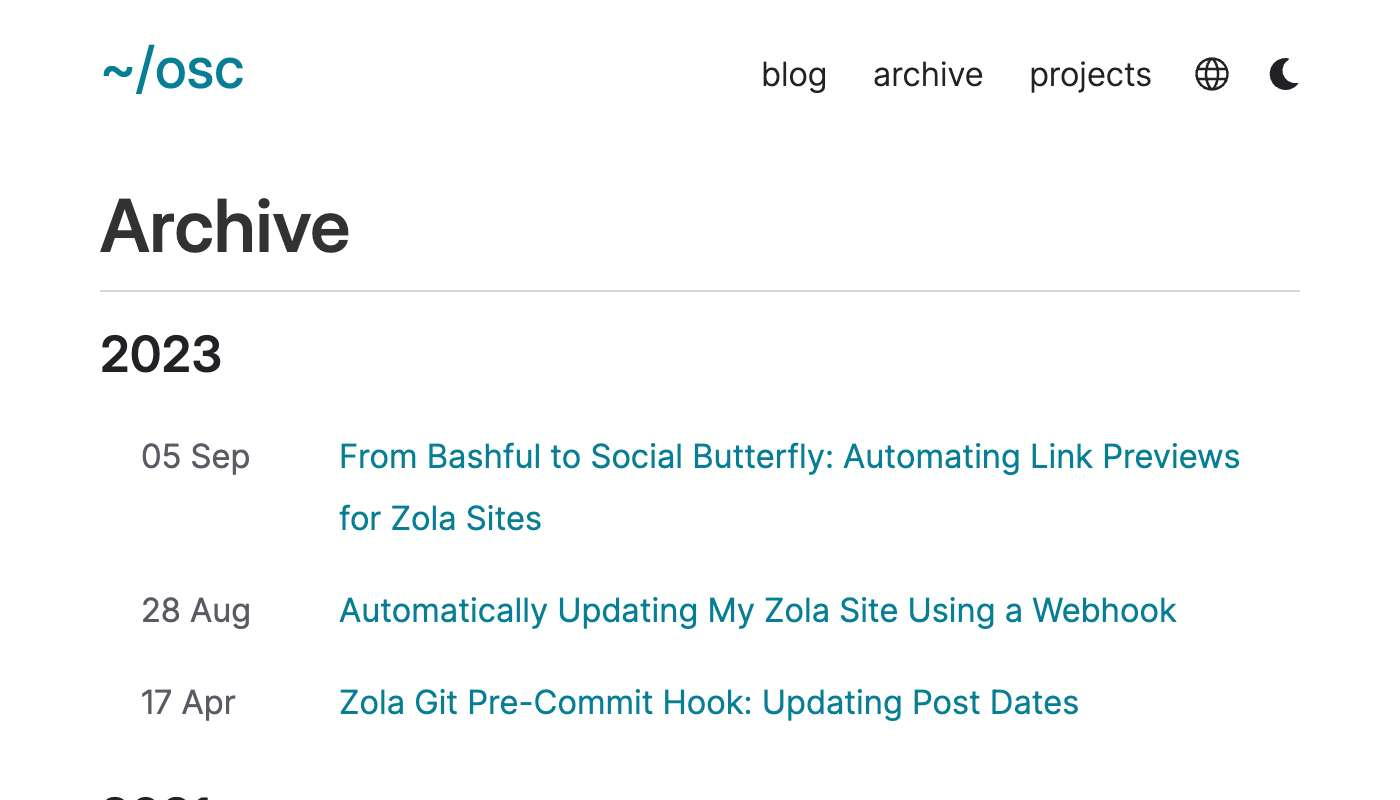
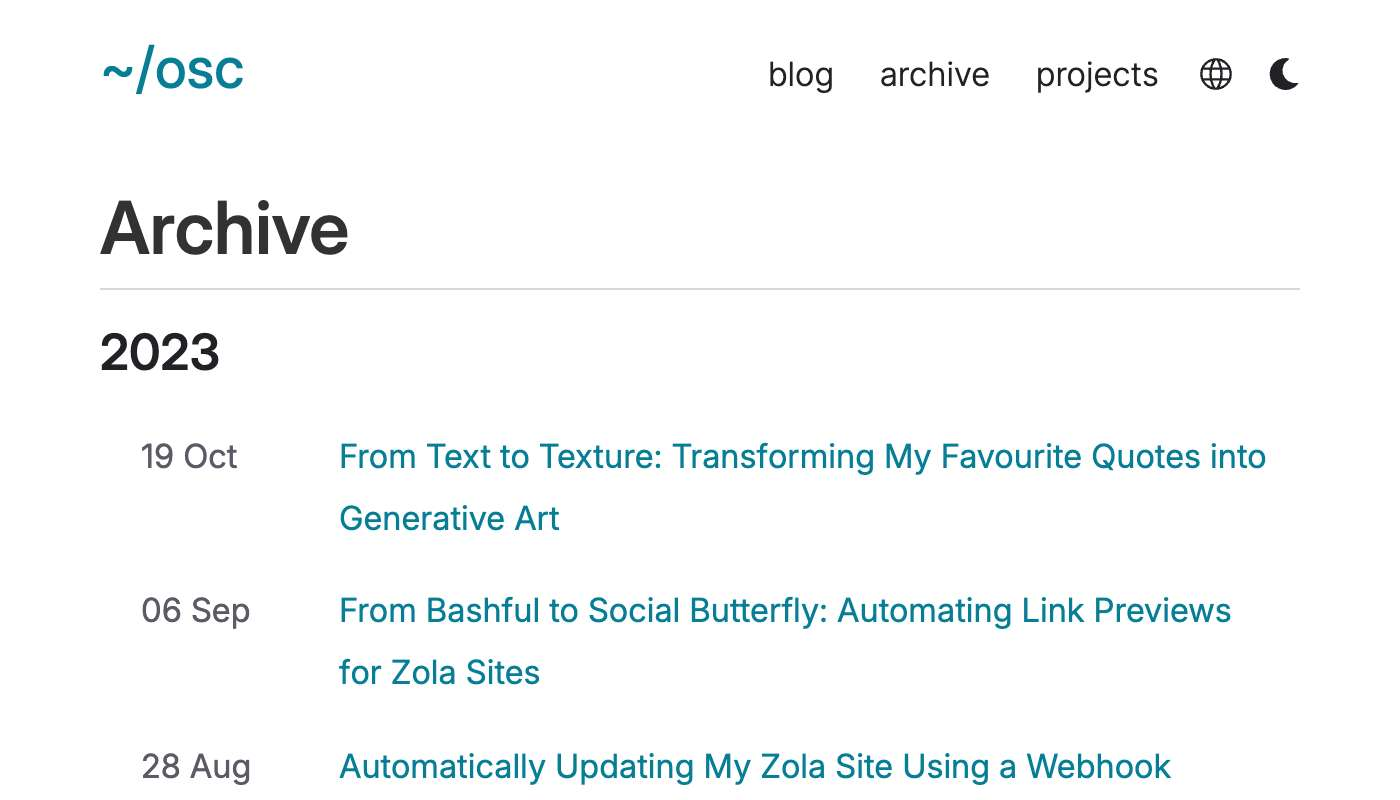
add quotes into generative AI post (& update tabi)

diff --git a/content/blog/transforming-quotes-into-generative-art/index.md b/content/blog/transforming-quotes-into-generative-art/index.md
@@ -1,0 +1,122 @@
++++
+title = "From Text to Texture: Transforming My Favourite Quotes into Generative Art"
+date = 2023-10-19
+description = "Exploring the intersection of literature and deep learning, I've used Stable Diffusion to turn cherished quotes into visual art. Journey through a gallery where words meet textures, colours, and forms."
+
+[taxonomies]
+tags = ["experiment", "generative AI"]
+
+[extra]
+social_media_card = "img/social_cards/blog_transforming_quotes_into_generative_art.jpg"
++++
+
+I've been collecting quotes that struck a chord with me for over 7 years.
+
+Recently, I've been experimenting with Stable Diffusion (SD), a deep learning model capable of turning words into images.
+
+I decided to have some fun and see what would happen if I tried to transform my favourite quotes into images.
+
+The process was simple: add the entire quote to SD, plus a few style-related words (e.g. "impasto" or "negative space"), and hit "Generate". I generated many images and picked my favourite for each quote.
+
+I hope at least one quote or image strikes a chord with you as well.
+
+## Blade Runner — David Peoples & Rutger Hauer
+
+> All those moments will be lost in time, like tears in rain… Time to die.
+
+{{ full_width_image(src="blog/transforming-quotes-into-generative-art/img/tearsintherain.webp") }}
+
+<br>
+
+## Ben Brooks — Grow Up
+
+> I enjoy being outdoors during mornings and evenings because I find that the sky is much more creative in its use of colour.
+
+{{ full_width_image(src="blog/transforming-quotes-into-generative-art/img/creativeuseofcolour.webp") }}
+
+<br>
+
+## Fyodor Dostoevsky — Demons
+
+> There are seconds, they come only five or six at a time, and you suddenly feel the presence of eternal harmony, fully achieved. It is nothing earthly; not that it’s heavenly, but man cannot endure it in his earthly state. One must change physically or die. The feeling is clear and indisputable. As if you suddenly sense the whole of nature and suddenly say: yes, this is true. God, when he was creating the world, said at the end of each day of creation: ‘Yes, this is true, this is good.’ This… this is not tenderheartedness, but simply joy. You don’t forgive anything, because there’s no longer anything to forgive. You don’t really love—oh, what is here is higher than love! What’s most frightening is that it’s so terribly clear, and there’s such joy. If it were longer than five seconds—the soul couldn’t endure it and would vanish. In those five seconds I live my life through, and for them I would give my whole life, because it’s worth it. To endure ten seconds one would have to change physically.
+
+{{ full_width_image(src="blog/transforming-quotes-into-generative-art/img/changeordie.webp") }}
+
+<br>
+
+## Jean-Paul Sartre — Nausea
+
+> I felt such utter loneliness that I thought of commiting suicide. What held me back was the idea that nobody, absolutely nobody would be moved by my death, that I would be even more alone in death than in life.
+
+{{ full_width_image(src="blog/transforming-quotes-into-generative-art/img/suicide.webp") }}
+
+<br>
+
+## Hiromi Kawakami — The Briefcase
+
+> I've come a long way, the cold seeps through my worn clothes. This afternoon the sky is clear, oh how my heart aches!
+
+{{ full_width_image(src="blog/transforming-quotes-into-generative-art/img/coldseeps.webp") }}
+
+<br>
+
+## Ben Brooks — Hurra
+
+> I think being with someone you don't connect with is a quicker path to loneliness than being totally alone. It's something that leads you to think about the impossibility of coexisting meaningfully with other people.
+
+{{ full_width_image(src="blog/transforming-quotes-into-generative-art/img/beingwithsomeoneyoudontconnect.webp") }}
+
+<br>
+
+## Rafael Lechowski — Quarcissus
+
+{{ multilingual_quote(original="Pero me miento,<br>
+me digo que la soledad es superior a la unión,<br>
+en mi pobre convencimiento,<br>
+y que sólo hay un amor eterno: el propio.<br>
+Pero no basta el amor propio:<br>
+¡igual que hay partes del cuerpo<br>
+que no puede rascar uno mismo,<br>
+hay lugares del alma que sólo puede acariciar otro!",
+translated="But I lie to myself,<br>
+I tell myself that solitude is superior to union,<br>
+in my poor conviction,<br>
+and that there is only one eternal love: one's own.<br>
+But self-love is not enough:<br>
+just as there are parts of the body<br>
+that one cannot scratch oneself,<br>
+there are places of the soul that only another can caress!", author="Rafael Lechowski") }}
+
+{{ full_width_image(src="blog/transforming-quotes-into-generative-art/img/quarcissus.webp") }}
+
+<br>
+
+## Victor Pelevin — Yellow Arrow
+
+> Andrei was suddenly struck by the thought of what a genuine tragedy it was for millions of light rays to set out on their journey from the surface of the sun, go hurtling through the infinite void of space and pierce the miles-thick sky of Earth, only to be extinguished in the revolting remains of yesterday’s soup. Maybe these yellow arrows slanting in through the window were conscious, hoped for something better—and realized that their hopes were groundless, giving them all the necessary ingredients for suffering.
+
+{{ full_width_image(src="blog/transforming-quotes-into-generative-art/img/yellowarrow.webp") }}
+
+<br>
+
+## Francisco Umbral — Mortal y Rosa
+
+{{ multilingual_quote(original="Vidas que arden ante mi vida, tiempo que se consume y corre. ¿Asisten ellos al espectáculo de mi tiempo, a la hoguera de mi vida? Damos una luz, al extinguirnos, que sólo ven los demás. Nosotros no la vemos. Vamos en llamas por la vida, y nadie nos avisa del incendio, por no asustarnos. Pero cómo nos ven arder. Como yo veo arder al escritor, al amigo. Vamos entre luces, entre noches, hacia no sé dónde, por la ciudad, hablando, soñando, dentro del coche, lentamente, contra el hielo, el miedo, la sombra, pasando huecos inmensos de tiempo, calles dormidas, multitudes.", translated="Lives burning before my life, time consumed and running. Are they watching the spectacle of my time, the bonfire of my life? We give a light, when we are extinguished, that only others see. We do not see it. We go through life in flames, and no one warns us of the fire, so as not to frighten us. But how they see us burn. As I see the writer, the friend burning. We go between lights, between nights, towards I don't know where, through the city, talking, dreaming, inside the car, slowly, against the ice, the fear, the shadow, passing immense gaps of time, sleeping streets, crowds.", author="Francisco Umbral") }}
+
+{{ full_width_image(src="blog/transforming-quotes-into-generative-art/img/fire.webp") }}
+
+## Charlie Kaufman — Synecdoche, New York
+
+> Everything is more complicated than you think. You only see a tenth of what is true. There are a million little strings attached to every choice you make; you can destroy your life every time you choose. But maybe you won't know for twenty years. And you may never ever trace it to its source. And you only get one chance to play it out. Just try and figure out your own divorce. And they say there is no fate, but there is: it's what you create. And even though the world goes on for eons and eons, you are only here for a fraction of a fraction of a second. Most of your time is spent being dead or not yet born. But while alive, you wait in vain, wasting years, for a phone call or a letter or a look from someone or something to make it all right. And it never comes or it seems to but it doesn't really. And so you spend your time in vague regret or vaguer hope that something good will come along. Something to make you feel connected, something to make you feel whole, something to make you feel loved. And the truth is I feel so angry, and the truth is I feel so fucking sad, and the truth is I've felt so fucking hurt for so fucking long and for just as long I've been pretending I'm OK, just to get along, just for, I don't know why, maybe because no one wants to hear about my misery, because they have their own. Well, fuck everybody. Amen.
+
+{{ full_width_image(src="blog/transforming-quotes-into-generative-art/img/synecdoche.webp") }}
+
+---
+
+That's it for today~
+
+This was a fun experiment. I saw many aberrations (SD is awful at hands) and was often surprised by the results.
+
+I'll likely be sharing more AI creations in the future.
+
+Cheers!
